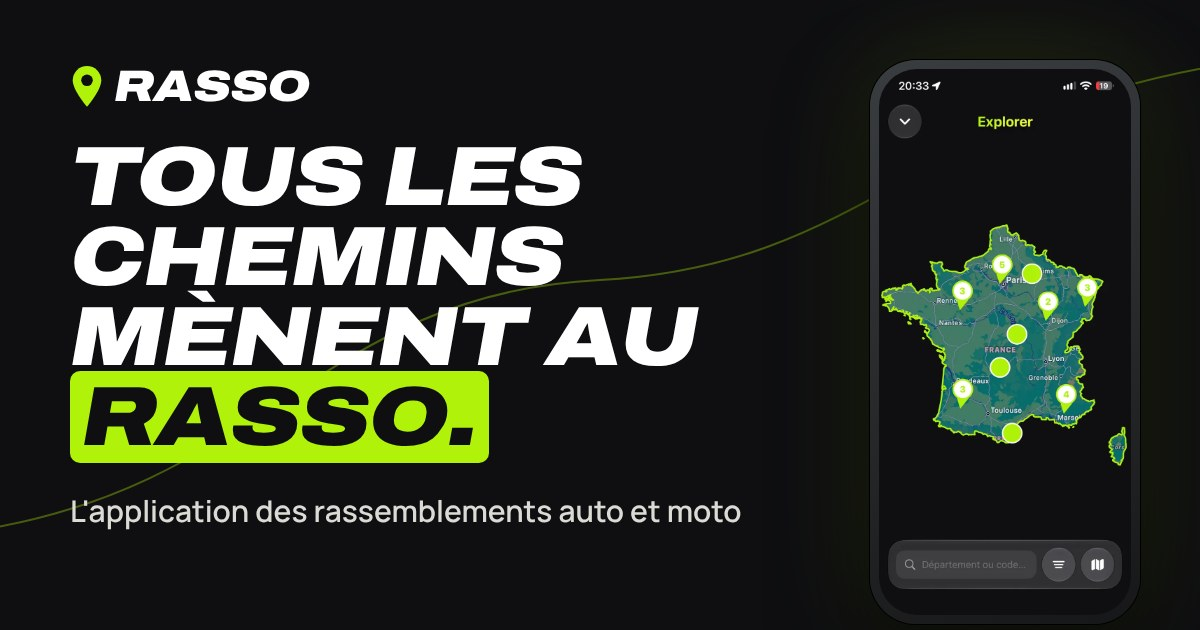
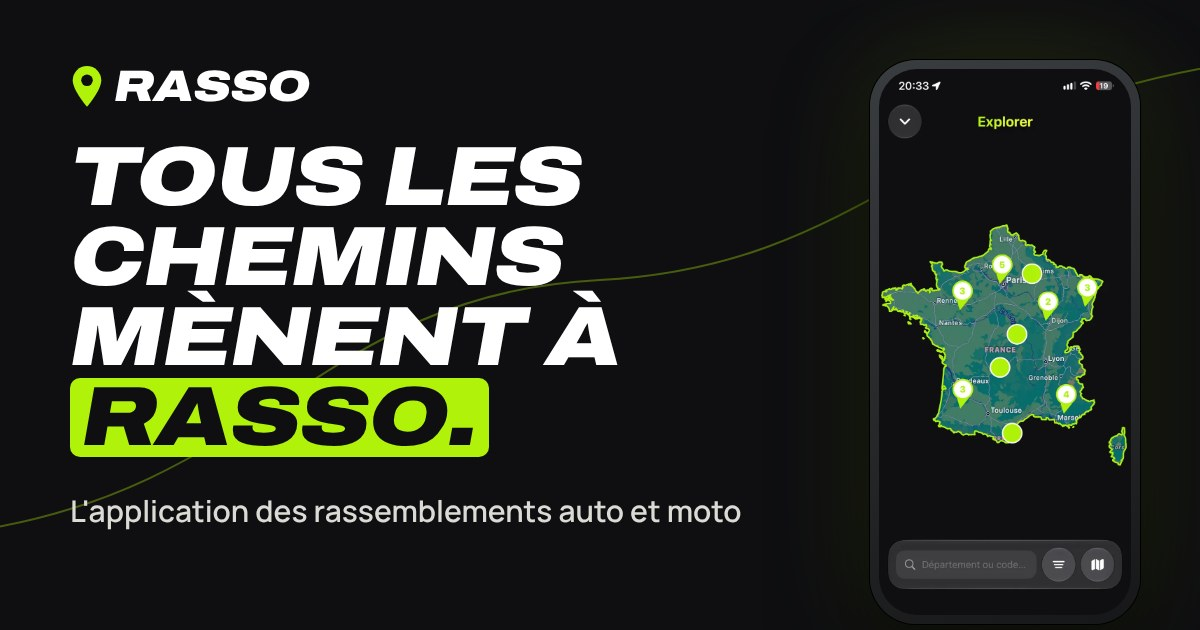
Signature : « Tous les chemins mènent à Rasso »
Claude-Session: https://claude.ai/code/session_0143y9SHu5SKVH4iJ944EjCN

diff --git a/index.html b/index.html
@@ -42,7 +42,7 @@
   <div class="wrap hero-in">
     <div class="hero-txt">
       <p class="plate"><i aria-hidden="true">F</i><span>Auto · Moto</span></p>
-      <h1>Tous les chemins<br>mènent au <mark>rasso.</mark></h1>
+      <h1>Tous les chemins<br>mènent à <mark>Rasso.</mark></h1>
       <p class="lead">Trouve les rassemblements près de toi, montre ton garage, rencontre d'autres passionnés et partez rouler en convoi. Tout Rasso tient dans une seule application.</p>
       <div class="cta-row"><a class="btn btn-lime btn-lg" href="https://apps.apple.com/fr/app/rasso/id6758964694" rel="noopener">Télécharger sur l'App Store</a><a class="btn btn-ghost btn-lg" href="#video">Voir la vidéo de 30 s</a></div>
     </div>

diff --git a/source/build.py b/source/build.py
@@ -104,7 +104,7 @@ home = f'''<section class="hero dark">{ROAD}
   <div class="wrap hero-in">
     <div class="hero-txt">
       {plate("Auto · Moto")}
-      <h1>Tous les chemins<br>mènent au <mark>rasso.</mark></h1>
+      <h1>Tous les chemins<br>mènent à <mark>Rasso.</mark></h1>
       <p class="lead">Trouve les rassemblements près de toi, montre ton garage, rencontre d'autres passionnés et partez rouler en convoi. Tout Rasso tient dans une seule application.</p>
       <div class="cta-row">{cta()}<a class="btn btn-ghost btn-lg" href="#video">Voir la vidéo de 30 s</a></div>
     </div>
